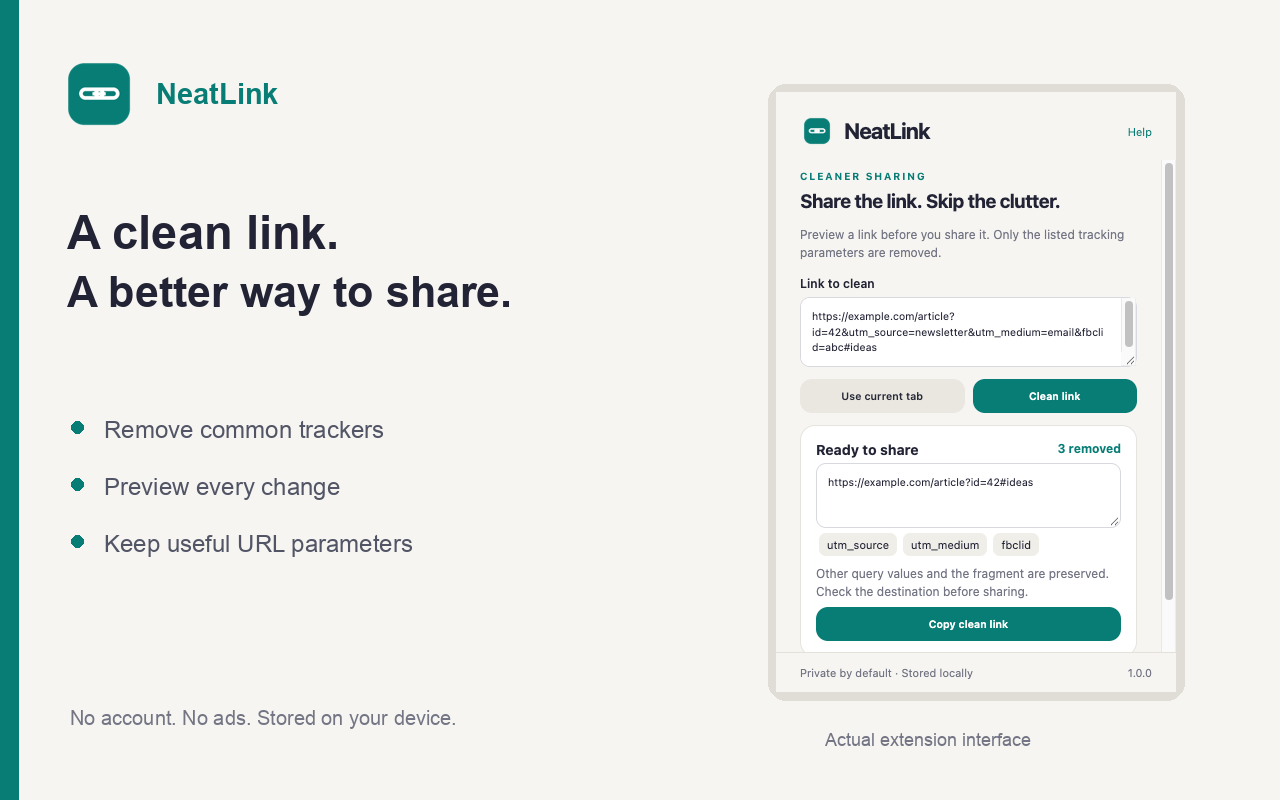
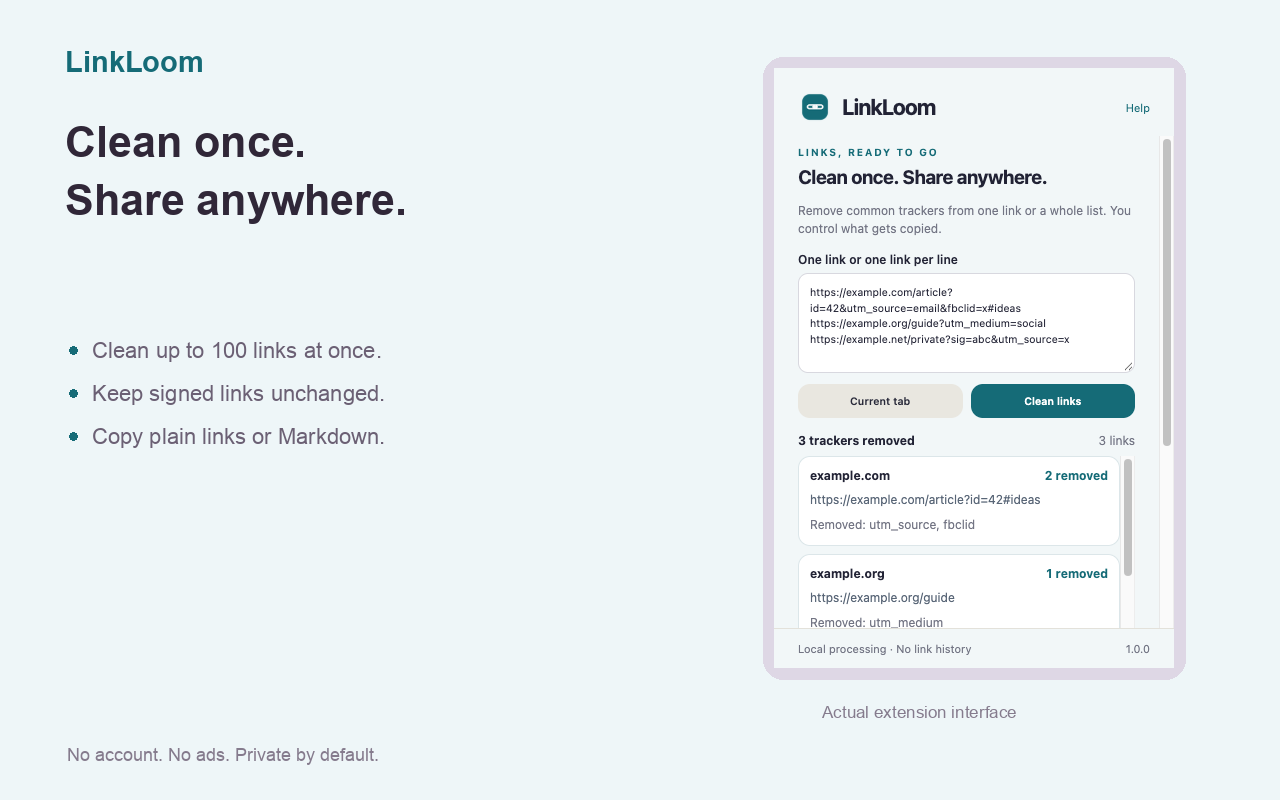
Launch new brand, expanded workflows, and store presentation

diff --git a/extension/popup.js b/extension/popup.js
@@ -1,5 +1,4 @@
-import {$,status,node,copy} from './shared.js';import {cleanUrl} from './model.js';
-function clean(){try{const result=cleanUrl($('#url').value);$('#output').value=result.url;$('#count').textContent=`${result.removed.length} removed`;$('#removed').replaceChildren(...result.removed.map(k=>node('span',k,'chip')));$('#explanation').textContent=result.protected?'This looks like a signed or tokenized link. It was kept unchanged to avoid breaking access.':result.removed.length?'Other query values and the fragment are preserved. Check the destination before sharing.':'No recognized tracking parameters. Your link was kept unchanged.';$('#result').hidden=false;status('');}catch(error){$('#result').hidden=true;status(error.message);}}
-$('#clean').onclick=clean;$('#url').oninput=()=>{$('#result').hidden=true;status('');};
-$('#current').onclick=async()=>{try{const [tab]=await chrome.tabs.query({active:true,currentWindow:true});if(!tab?.url||!/^https?:\/\//.test(tab.url)){status('Open a web page first, or paste a link.');return;}$('#url').value=tab.url;clean();}catch{status('Could not read this tab. Paste a link instead.');}};
-$('#copy').onclick=()=>copy($('#output').value);
+import {$,status,node,copy,download} from './shared.js';import {cleanBatch,markdownLink} from './model.js';let results=[],currentTitle='';
+function output(){const valid=results.filter(r=>!r.error);$('#output').value=valid.map((r,i)=>$('#format').value==='markdown'?'- '+markdownLink(results.length===1&&currentTitle?currentTitle:new URL(r.url).hostname,r.url):r.url).join('\n');$('#copy').disabled=!valid.length;$('#export').disabled=!valid.length;}
+function clean(){try{results=cleanBatch($('#url').value);if(!results.length)throw Error('Paste a link or choose Current tab.');$('#result').hidden=false;$('#count').textContent=`${results.reduce((n,r)=>n+r.removed.length,0)} trackers removed`;$('#link-count').textContent=`${results.length} ${results.length===1?'link':'links'}`;const box=$('#results');box.replaceChildren();for(const [i,r] of results.entries()){const item=node('article',undefined,'link-result');const summary=node('div',undefined,'note-title');summary.append(node('strong',r.error?`Link ${i+1}: needs attention`:new URL(r.url).hostname),node('span',r.error?'Skipped':r.protected?'Protected':`${r.removed.length} removed`,'count'));item.append(summary,node('p',r.url,'preview'));if(r.error)item.append(node('p',r.error,'error'));else if(r.protected)item.append(node('p','Signed or tokenized link: kept unchanged.','muted'));else if(r.removed.length)item.append(node('p','Removed: '+r.removed.join(', '),'muted'));else item.append(node('p','No recognized tracking parameters.','muted'));box.append(item);}output();status(results.some(r=>r.error)?'Invalid links are excluded from copying. Review the preview.':'Review important links before sharing. Destinations are not visited.');}catch(error){$('#result').hidden=true;status(error.message);}}
+$('#clean').onclick=clean;$('#url').oninput=()=>{$('#result').hidden=true;currentTitle='';status('');};$('#current').onclick=async()=>{try{const [tab]=await chrome.tabs.query({active:true,currentWindow:true});if(!tab?.url||!/^https?:\/\//.test(tab.url)){status('Open a web page, or paste links.');return;}$('#url').value=tab.url;currentTitle=tab.title||'';clean();}catch{status('Could not read this tab. Paste a link instead.');}};$('#format').onchange=output;$('#copy').onclick=()=>copy($('#output').value);$('#export').onclick=()=>download($('#format').value==='markdown'?'clean-links.md':'clean-links.txt',$('#output').value,'text/plain');

diff --git a/extension/popup.html b/extension/popup.html
@@ -1,1 +1,1 @@
-<!doctype html><html lang="en"><head><meta charset="utf-8"><meta name="viewport" content="width=device-width,initial-scale=1"><title>NeatLink</title><link rel="stylesheet" href="style.css"></head><body><header><div><img src="icons/icon48.png" alt=""><h1>NeatLink</h1></div><a class="brand-link" href="privacy.html" target="_blank">Help</a></header><main><div class="eyebrow">CLEANER SHARING</div><h2>Share the link. Skip the clutter.</h2><p class="muted">Preview a link before you share it. Only the listed tracking parameters are removed.</p><label for="url">Link to clean</label><textarea id="url" placeholder="Paste an HTTP or HTTPS link" spellcheck="false"></textarea><div class="row" style="margin-top:10px"><button id="current">Use current tab</button><button id="clean" class="primary">Clean link</button></div><section id="result" class="card" hidden><div class="note-title"><h3>Ready to share</h3><span id="count" class="count"></span></div><textarea id="output" readonly aria-label="Cleaned link" spellcheck="false"></textarea><div id="removed"></div><p class="muted" id="explanation"></p><button id="copy" class="primary" style="width:100%">Copy clean link</button></section><p id="status" class="status" role="status" aria-live="polite"></p></main><footer><span>Private by default · Stored locally</span><span>1.0.0</span></footer><script type="module" src="popup.js"></script></body></html>
+<!doctype html><html lang="en"><head><meta charset="utf-8"><meta name="viewport" content="width=device-width,initial-scale=1"><title>LinkLoom</title><link rel="stylesheet" href="style.css"></head><body><header><div><img src="icons/icon48.png" alt=""><h1>LinkLoom</h1></div><a class="brand-link" href="privacy.html" target="_blank">Help</a></header><main><div class="eyebrow">LINKS, READY TO GO</div><h2>Clean once. Share anywhere.</h2><p class="muted">Remove common trackers from one link or a whole list. You control what gets copied.</p><label for="url">One link or one link per line</label><textarea id="url" placeholder="https://example.com/article?utm_source=email" spellcheck="false" style="min-height:100px"></textarea><div class="row" style="margin-top:9px"><button id="current">Current tab</button><button id="clean" class="primary">Clean links</button></div><section id="result" hidden><div class="row result-summary"><strong id="count"></strong><span id="link-count" class="muted"></span></div><div id="results" class="results"></div><label for="format">Copy format</label><select id="format"><option value="plain">Plain URLs</option><option value="markdown">Markdown list</option></select><div class="row" style="margin-top:10px"><button id="copy" class="primary">Copy results</button><button id="export">Export text</button></div><textarea id="output" readonly aria-label="Formatted cleaned links" spellcheck="false" style="min-height:70px;margin-top:10px"></textarea></section><p id="status" class="status" role="status" aria-live="polite"></p></main><footer><span>Local processing · No link history</span><span>1.1.0</span></footer><script type="module" src="popup.js"></script></body></html>

diff --git a/extension/model.js b/extension/model.js
@@ -1,2 +1,5 @@
 const TRACKING=new Set(['fbclid','gclid','dclid','msclkid','gbraid','wbraid','mc_cid','mc_eid','igshid','yclid','_hsenc','_hsmi']);
 export function cleanUrl(value){const input=value.trim();let u;try{u=new URL(input);}catch{throw Error('Enter a complete link beginning with http:// or https://.');}if(!['http:','https:'].includes(u.protocol))throw Error('Only HTTP and HTTPS links are supported.');if(u.username||u.password)throw Error('Links containing a username or password cannot be shared here.');const keys=[...u.searchParams.keys()];const removed=[...new Set(keys.filter(k=>k.toLowerCase().startsWith('utm_')||TRACKING.has(k.toLowerCase())))];if(!removed.length)return {url:input,removed:[],protected:false};const signed=keys.some(k=>/^(?:x-amz-|x-goog-)|^(?:signature|sig|token|access_token|expires|policy)$/i.test(k));if(signed)return {url:input,removed:[],protected:true};const noHash=input.split('#')[0];const queryAt=noHash.indexOf('?');const base=noHash.slice(0,queryAt);const query=noHash.slice(queryAt+1);const parts=query.split('&').filter(part=>{const raw=part.split('=')[0];let key;try{key=decodeURIComponent(raw.replace(/\+/g,' '));}catch{return true;}return !removed.includes(key);});const hash=input.includes('#')?input.slice(input.indexOf('#')):'';return {url:base+(parts.length?'?'+parts.join('&'):'')+hash,removed,protected:false};}
+
+export function cleanBatch(text){const lines=text.split(/\r?\n/).map(s=>s.trim()).filter(Boolean);if(lines.length>100)throw Error('Use 100 or fewer links at once.');return lines.map(input=>{try{return {input,...cleanUrl(input),error:null};}catch(error){return {input,url:input,removed:[],protected:false,error:error.message};}});}
+export function markdownLink(title,url){return `[${String(title||'Link').replace(/[\[\]\\]/g,'\\$&')}](${url.replace(/\(/g,'%28').replace(/\)/g,'%29').replace(/ /g,'%20')})`;}

diff --git a/tests/model.test.js b/tests/model.test.js
@@ -4,3 +4,6 @@ test('handles duplicate and case-insensitive trackers',()=>{const r=cleanUrl('ht
 test('signed or tokenized links remain byte-for-byte unchanged',()=>{for(const query of ['sig=a','X-Amz-Signature=a','token=a','expires=123']){const u='https://example.com?utm_source=x&'+query;assert.equal(cleanUrl(u).url,u);assert.equal(cleanUrl(u).protected,true);}});
 test('does not strip useful functional parameters or rewrite clean links',()=>{const u='https://example.com?ref=account&page=2&format=pdf#view';assert.equal(cleanUrl(u).url,u);});
 test('rejects credentials and executable schemes',()=>{for(const u of ['javascript:alert(1)','file:///test','https://user:password@example.com','not a URL'])assert.throws(()=>cleanUrl(u));});
+import {cleanBatch,markdownLink} from '../extension/model.js';
+test('batch results isolate invalid input and limit work',()=>{const r=cleanBatch('https://example.com?utm_source=x\nnot a link\nhttps://example.org?q=a%20b');assert.equal(r[0].url,'https://example.com');assert.ok(r[1].error);assert.equal(r[2].url,'https://example.org?q=a%20b');assert.throws(()=>cleanBatch(Array(101).fill('https://example.com').join('\n')));});
+test('Markdown output escapes brackets and destination parentheses',()=>{assert.equal(markdownLink('[Title]','https://example.com/a(b)'), '[\\[Title\\]](https://example.com/a%28b%29)');});

diff --git a/extension/style.css b/extension/style.css
@@ -4,3 +4,5 @@
 body:not(.library){height:600px;display:flex;flex-direction:column}body:not(.library) main{flex:1;overflow-y:auto;min-height:0}body:not(.library) header,body:not(.library) footer{flex-shrink:0}.library{display:block;height:auto}
 
 #url{min-height:70px;height:70px}#output{min-height:65px;height:65px}body:not(.library) h2{font-size:19px}
+
+:root{--accent:#156b77;background:#f2f7f8}.result-summary{margin:15px 0 8px;justify-content:space-between;font-size:12px}.result-summary>span{text-align:right}.results{max-height:190px;overflow:auto}.link-result{background:white;border:1px solid #dce6e9;border-radius:12px;padding:11px;margin-bottom:8px}.link-result strong{font-size:12px}.link-result p{margin:7px 0 0}.error{font-size:11px;color:#a64242}.link-result .preview{max-height:70px;color:#596677}.primary{background:var(--accent)}#output{height:70px}

diff --git a/scripts/package.py b/scripts/package.py
@@ -14,7 +14,7 @@ out.parent.mkdir(exist_ok=True)
 with ZipFile(out,'w',ZIP_DEFLATED) as z:
  for p in sorted(source.rglob('*')):
   if p.is_file() and not p.name.startswith('.'):
-   assert p.suffix in {'.json','.html','.css','.js','.png'}
+   assert p.suffix in {'.json','.html','.css','.js','.png','.svg'}
    z.write(p,p.relative_to(source))
 with ZipFile(out) as z: assert z.testzip() is None
 print(f"Validated {m['name']}; created {out.relative_to(ROOT)} ({out.stat().st_size} bytes)")

diff --git a/README.md b/README.md
@@ -1,39 +1,40 @@
-# NeatLink
+# LinkLoom
 
-Share the link. Skip the clutter.
+Clean once. Share anywhere.
 
-Remove common tracking parameters from links before sharing. Preview every change and copy a cleaner URL in one click.
+LinkLoom prepares a single URL or an entire list for sharing. Remove common tracking parameters, review the changes, and copy clean links as plain text or a Markdown list.
+
+## Features
+
+- Process up to 100 links at once, one URL per line.
+- Remove UTM parameters and common click identifiers such as fbclid, gclid, and msclkid.
+- Preview the resulting links and the removed parameters.
+- Keep detected signed or tokenized URLs unchanged.
+- Copy plain URLs or Markdown links, or export a text file.
+- Use the current tab without permanent website access.
+
+## Limits
+
+LinkLoom does not visit destinations, expand short URLs, or guarantee that all tracking is removed. It preserves unrelated query values and fragments. Invalid links are excluded from copy/export results. Links with embedded credentials are rejected. Always review important links before sharing.
 
 ## Development
 
-Open `chrome://extensions`, enable Developer mode, choose **Load unpacked**, and select `extension/`. No build or package dependencies are needed.
+Open `chrome://extensions`, enable Developer mode, choose **Load unpacked**, and select `extension/`. All runtime assets are packaged locally.
 
-Run `npm test` for logic tests and `npm run package` to validate and create a clean ZIP in `dist/`.
+Run `npm test` for logic tests. Run `npm run package` to validate and create an upload ZIP in `dist/`. No build step or runtime package dependencies are required.
 
 ## Privacy
 
-See [PRIVACY.md](PRIVACY.md) for stored data and permission explanations. No accounts, analytics, ads, or developer servers.
+URLs are held in popup memory only and are not persistently stored. Links are placed on the clipboard or in a downloaded text file only at your request.
+
+`activeTab` reads the current tab URL and title only when you invoke the extension and choose Current tab. No page content is read.
+
+See [PRIVACY.md](PRIVACY.md). No developer servers, advertising, or analytics.
 
 ## Support
 
-Report bugs through this repository's issue tracker. Include reproducible steps and the extension version, with private information removed.
+Report reproducible bugs through this repository's issue tracker. Remove private information first.
 
 ## License
 
 MIT.
-
-## Features and limits
-
-NeatLink removes common tracking parameters before you share a URL. Paste a link or use the current tab, preview the cleaned result, and copy it.
-
-FEATURES
-- Remove UTM parameters and common click identifiers, including fbclid, gclid, and msclkid.
-- See exactly which parameters were removed.
-- Preserve unrelated query values and URL fragments.
-- Keep detected signed or tokenized links unchanged.
-- No automatic navigation changes, login, or tracking.
-
-NeatLink works on HTTP and HTTPS URLs. It does not expand short links, visit the destination, or guarantee that a link contains no tracking. A cleaner URL does not change the privacy practices of the destination website. Check the preview before sharing important links.
-
-PRIVACY
-Links are processed locally and are not saved by the extension. Current-tab access happens only when you invoke the extension. The clipboard receives the cleaned link only when you choose Copy clean link. No developer servers or analytics.

diff --git a/PRIVACY.md b/PRIVACY.md
@@ -1,21 +1,21 @@
-# NeatLink privacy policy
+# LinkLoom privacy policy
 
 Effective date: 2026-10-16.
 
-## Data and processing
+## Local data and processing
 
-No persistent data. Pasted or current-tab links are held only in the popup while it is open. The chosen link is copied to the operating system clipboard only on request.
+URLs are held in popup memory only and are not persistently stored. Links are placed on the clipboard or in a downloaded text file only at your request.
 
-All processing happens within the extension on your device. We do not collect, receive, transmit, sell, or share personal data. The extension has no analytics, advertising, remote executable code, developer server, or account requirement.
+Processing happens on your device. The developer does not receive, sell, or transmit this data. The extension has no developer servers, accounts, cloud sync, analytics, advertising, or remote executable code. Local processing can involve sensitive text or URLs supplied by you; the store disclosures describe the data handled by the extension even though it is not sent to the developer.
 
 ## Permissions
 
-- `activeTab`: access the current page URL when you invoke the extension and choose Use current tab. No permanent website access.
+`activeTab` reads the current tab URL and title only when you invoke the extension and choose Current tab. No page content is read.
 
 ## Retention and control
 
-Local data remains until you remove it through the app, clear extension data, or uninstall the extension. Export and delete controls are available for saved collections and notes. Exported files are controlled by you and may contain private information. Chrome and the Web Store have separate Google privacy policies.
+Local saved data remains until you delete it, clear extension data, or uninstall the extension. Exported files and clipboard contents are controlled by you. The library and collection tools provide delete and backup controls. LinkLoom keeps no persistent link history. FocusPet retains up to 90 days of daily counts and a lifetime companion total. Chrome and its Web Store have separate Google privacy policies.
 
 ## Contact
 
-Use the repository issue tracker or the Chrome Web Store support contact for privacy questions. Do not post private data in public issues.
+Use this repository's issue tracker or the Chrome Web Store support contact for privacy questions. Do not post private content in public issues.

diff --git a/store/listing.md b/store/listing.md
@@ -1,4 +1,4 @@
-# NeatLink
+# LinkLoom
 
 ## Category
 
@@ -10,16 +10,23 @@ English
 
 ## Description
 
-NeatLink removes common tracking parameters before you share a URL. Paste a link or use the current tab, preview the cleaned result, and copy it.
+Clean once. Share anywhere.
+
+LinkLoom prepares a single URL or an entire list for sharing. Remove common tracking parameters, review the changes, and copy clean links as plain text or a Markdown list.
 
 FEATURES
-- Remove UTM parameters and common click identifiers, including fbclid, gclid, and msclkid.
-- See exactly which parameters were removed.
-- Preserve unrelated query values and URL fragments.
-- Keep detected signed or tokenized links unchanged.
-- No automatic navigation changes, login, or tracking.
+- Process up to 100 links at once, one URL per line.
+- Remove UTM parameters and common click identifiers such as fbclid, gclid, and msclkid.
+- Preview the resulting links and the removed parameters.
+- Keep detected signed or tokenized URLs unchanged.
+- Copy plain URLs or Markdown links, or export a text file.
+- Use the current tab without permanent website access.
 
-NeatLink works on HTTP and HTTPS URLs. It does not expand short links, visit the destination, or guarantee that a link contains no tracking. A cleaner URL does not change the privacy practices of the destination website. Check the preview before sharing important links.
+GOOD TO KNOW
+LinkLoom does not visit destinations, expand short URLs, or guarantee that all tracking is removed. It preserves unrelated query values and fragments. Invalid links are excluded from copy/export results. Links with embedded credentials are rejected. Always review important links before sharing.
 
-PRIVACY
-Links are processed locally and are not saved by the extension. Current-tab access happens only when you invoke the extension. The clipboard receives the cleaned link only when you choose Copy clean link. No developer servers or analytics.
+PRIVATE BY DEFAULT
+No account, analytics, advertising, cloud synchronization, or developer servers. Processing happens on your device. Links are not saved by the extension. Exported files may contain private information; keep them somewhere you trust.
+
+SUPPORT
+Report bugs or suggestions through the support link. Please remove private URLs, notes, and credentials from reports.

diff --git a/store/asset-notes.md b/store/asset-notes.md
@@ -1,0 +1,5 @@
+# Store assets
+
+Promotional artwork uses the extension's original vector and geometric mascot system. Overview images combine promotional typography with an actual isolated-browser UI capture. Capture content uses fictional example domains and local data. No user account information is included.
+
+Required assets: RGB PNG overview at 1280×800 and small promotional tile at 440×280. Optional marquee: RGB PNG at 1400×560. Icons use RGBA PNG at 16, 32, 48, and 128 pixels.

diff --git a/store/reviewer-instructions.md b/store/reviewer-instructions.md
@@ -1,0 +1,3 @@
+# Reviewer instructions
+
+Paste an HTTP URL with utm_source and a normal query parameter. Choose Clean links and inspect the preview. Paste multiple links, switch to Markdown list, and copy or export the results. Signed links are kept unchanged. No login is needed.
